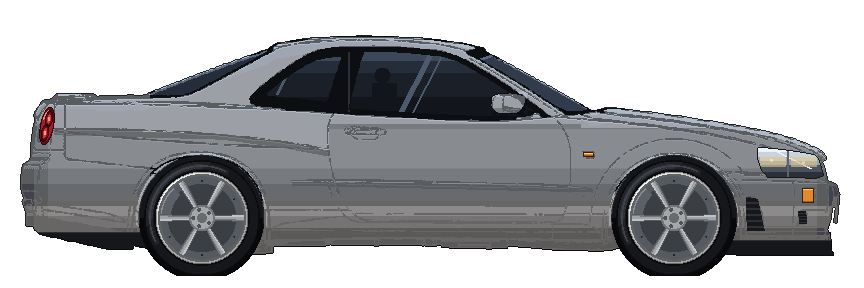
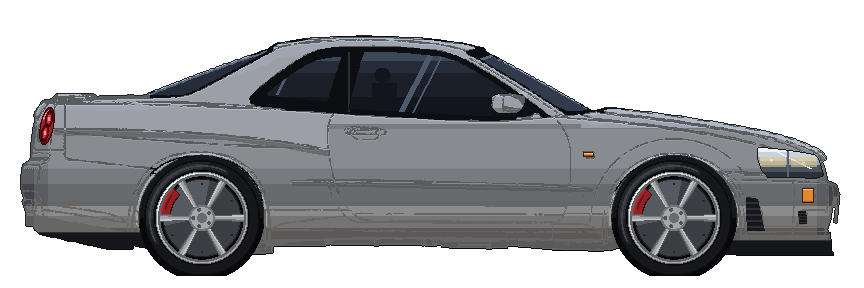
fix(car): колёса заново — шина и диск одним кадром, тормозной диск и суппорт своего цвета
Причина «отходящих» дисков: кузов на подвеске опускался ниже зазора арки и закрывал верх шины, а поворот спрайта между кадрами и мутное размытие поверх прятали суппорт. Теперь все крутящиеся слои берут один кадр листа (32 кадра, без поворота спрайта), шаг за кадр не больше половины периода спиц, спицы на скорости частично размываются. Ход подвески вниз ограничен зазором арки. Тормоз разделён на крутящийся диск и неподвижный суппорт; цвет суппортов выбирается в «Покраске».

diff --git a/src/systems/CarRig.js b/src/systems/CarRig.js
@@ -29,12 +29,16 @@ const AY = car.anchor.y;
 const PIVOT_Y = car.wheels.rear.y - AY; // кузов качается вокруг высоты осей
 const SIZES = [...new Set(Object.values(car.rims))];
 const RIM_TYPES = Object.keys(car.rims);
-/** Все колёсные листы: шины под каждый размер диска, тормоза и диски. */
+/** Все колёсные листы: шины под каждый размер диска, тормозные диски и колёсные диски. */
 const WHEEL_SHEETS = [
   ...car.tires.flatMap((t) => SIZES.map((s) => `wheel_tire_${t}_${s}`)),
-  ...RIM_TYPES.flatMap((r) => [`wheel_brake_${r}`, `wheel_rim_${r}`]),
+  ...SIZES.map((s) => `wheel_disc_${s}`),
+  ...RIM_TYPES.map((r) => `wheel_rim_${r}`),
 ];
+/** Суппорты — по одному на размер диска, не крутятся. */
+const CALIPERS = SIZES.map((s) => `wheel_caliper_${s}`);
 const OLD_RIM_COLOR = 0x9a9ea6;
+const OLD_CALIPER_COLOR = 0x6a6e75;
 // Текстуры машины в DENSITY раз детальнее мира: показываем в масштабе 1/DENSITY.
 const DENSITY = car.density ?? 1;
 const TEX = 1 / DENSITY;
@@ -48,6 +52,7 @@ const IMAGES = [
   'car_headlight',
   'car_dirt',
   'car_bricks',
+  ...CALIPERS,
   ...Object.values(car.overlays).map((k) => `car_overlay_${k}`),
   ...Object.values(car.spoilers).flatMap((s) => Object.values(s)),
 ];
@@ -78,10 +83,13 @@ const colorOf = (group, value) => {
 export function wheelKeys(build) {
   const tire = build.tires ? getPart(build.tires)?.sprite : car.noTires.tire;
   const rim = build.tires ? (getPart(build.rims)?.sprite ?? 'six') : car.noTires.rim;
+  const size = car.rims[rim];
   return {
-    brake: `wheel_brake_${rim}`,
-    tire: `wheel_tire_${tire}_${car.rims[rim]}`,
+    disc: `wheel_disc_${size}`,
+    caliper: `wheel_caliper_${size}`,
+    tire: `wheel_tire_${tire}_${size}`,
     rim: `wheel_rim_${rim}`,
+    spokes: car.spokes[rim] ?? 6,
   };
 }
 
@@ -176,7 +184,7 @@ function beamTexture(scene) {
 }
 
 /**
- * Размытый во вращении вариант листа колеса: среднее всех 16 кадров по каждому пикселю.
+ * Размытый во вращении вариант листа колеса: среднее всех кадров по каждому пикселю.
  * Нужен на скорости: за кадр экрана колесо проворачивается почти на период узора спиц,
  * и без размытия диск «стоит» или крутится назад (эффект колёс в кино).
  */
@@ -223,16 +231,21 @@ function spinBlurTexture(scene, key) {
   return blurKey;
 }
 
+/** Шаг листа колеса, рад: 32 кадра на оборот. */
+const FRAME_STEP = (Math.PI * 2) / car.wheelFrame.frames;
 /**
- * Наибольший видимый поворот колеса за кадр экрана, рад. Узор спиц повторяется через 60°;
- * шаг больше половины периода глаз читает как вращение назад или стоп. Реальный угол
- * копится честно, а видимый догоняет его не быстрее этого шага — диск всегда крутится вперёд.
+ * Видимый поворот за кадр экрана — не больше этой доли периода спиц. Шаг больше половины
+ * периода глаз читает как стоп или вращение назад (эффект колёс в кино), поэтому быстрее
+ * диск не поворачиваем, а на скорости спицы плавно уходят в размытие.
  */
-const MAX_TURN = 0.42;
-/** С какой скорости (кадров листа за кадр экрана) поверх проступает размытие и до какой оно растёт. */
-const BLUR_FROM = 0.5;
-const BLUR_FULL = 2.5;
-const BLUR_MAX = 0.7;
+const TURN_OF_PERIOD = 0.45;
+/** Размытие спиц: от какой и до какой доли периода за кадр, и насколько сильное в пределе. */
+const BLUR_FROM = 0.2;
+const BLUR_FULL = 0.55;
+const BLUR_MAX = 0.55;
+
+/** Слои колеса снизу вверх. */
+const WHEEL_LAYERS = ['disc', 'caliper', 'tire', 'rim', 'rimBlur'];
 
 export class CarRig extends Phaser.GameObjects.Container {
   /**
@@ -246,8 +259,7 @@ export class CarRig extends Phaser.GameObjects.Container {
     scene.add.existing(this);
     this.night = Boolean(opts.night);
     this.suspension = createSuspension();
-    this.wheelAngle = 0;
-    this.visualAngle = 0;
+    this.wheelAngle = 0; // видимый угол колёс, рад
 
     const img = (key) =>
       scene.add
@@ -297,13 +309,15 @@ export class CarRig extends Phaser.GameObjects.Container {
     const wheel = (w) => {
       const x = w.x - AX;
       const yy = w.y - AY;
+      // Снизу вверх: тормозной диск (крутится) → суппорт (стоит) → шина → диск колеса и его
+      // размытая копия. Все крутящиеся слои берут один и тот же кадр листа — никаких поворотов
+      // спрайта, поэтому шина и диск всегда совпадают до точки.
       return {
-        brake: scene.add.sprite(x, yy, 'wheel_brake_six', 0).setScale(TEX),
+        disc: scene.add.sprite(x, yy, 'wheel_disc_m', 0).setScale(TEX),
+        caliper: scene.add.image(x, yy, 'wheel_caliper_m').setScale(TEX),
         tire: scene.add.sprite(x, yy, 'wheel_tire_stock_m', 0).setScale(TEX),
         rim: scene.add.sprite(x, yy, 'wheel_rim_six', 0).setScale(TEX),
-        // Размытие поверх шины и диска: крутится вместе с ними, прозрачность растёт со скоростью.
-        tireBlur: scene.add.image(x, yy, '__DEFAULT').setScale(TEX).setAlpha(0),
-        rimBlur: scene.add.image(x, yy, '__DEFAULT').setScale(TEX).setAlpha(0),
+        rimBlur: scene.add.image(x, yy, 'wheel_rim_six').setScale(TEX).setAlpha(0),
       };
     };
     this.wheels = { rear: wheel(car.wheels.rear), front: wheel(car.wheels.front) };
@@ -314,9 +328,7 @@ export class CarRig extends Phaser.GameObjects.Container {
       this.neon,
       this.bodyBack,
       this.bricks,
-      ...['rear', 'front'].flatMap((k) =>
-        ['brake', 'tire', 'tireBlur', 'rim', 'rimBlur'].map((p) => this.wheels[k][p]),
-      ),
+      ...['rear', 'front'].flatMap((k) => WHEEL_LAYERS.map((p) => this.wheels[k][p])),
       this.bodyFront,
     ]);
 
@@ -353,17 +365,19 @@ export class CarRig extends Phaser.GameObjects.Container {
     // Колёса: без шин в сборке — спущенное дедово сзади и кирпичи спереди.
     const keys = wheelKeys(build);
     const rimColor = build.tires ? colorOf('rim', looks.rim) : OLD_RIM_COLOR;
+    const caliperColor = build.tires
+      ? (colorOf('caliper', looks.caliper) ?? OLD_CALIPER_COLOR)
+      : OLD_CALIPER_COLOR;
+    this.spokes = keys.spokes;
     for (const w of [this.wheels.rear, this.wheels.front]) {
-      for (const p of ['brake', 'tire', 'rim']) w[p].setTexture(keys[p], w[p].frame.name);
-      w.keys = keys;
-      w.spins = Boolean(build.tires); // спущенное дедово колесо не вертим — у него плоский низ
-      w.tireBlur.setTexture(spinBlurTexture(this.scene, keys.tire));
+      for (const p of ['disc', 'tire', 'rim']) w[p].setTexture(keys[p], w[p].frame.name);
+      w.caliper.setTexture(keys.caliper).setTint(caliperColor);
       w.rimBlur.setTexture(spinBlurTexture(this.scene, keys.rim)).setTint(rimColor);
       w.rim.setTint(rimColor);
     }
+    this.spins = Boolean(build.tires); // спущенное дедово колесо стоит — у него плоский низ
     const hasWheels = Boolean(build.tires);
-    for (const p of ['brake', 'tire', 'tireBlur', 'rim', 'rimBlur'])
-      this.wheels.front[p].setVisible(hasWheels);
+    for (const p of WHEEL_LAYERS) this.wheels.front[p].setVisible(hasWheels);
     this.bricks.setVisible(!hasWheels);
     this.build = build;
     return this;
@@ -375,9 +389,12 @@ export class CarRig extends Phaser.GameObjects.Container {
     this.bodyBack.rotation = other.bodyBack.rotation;
     this.bodyFront.y = other.bodyFront.y;
     this.bodyFront.rotation = other.bodyFront.rotation;
-    for (const k of ['rear', 'front'])
-      for (const p of ['brake', 'tire', 'rim'])
+    for (const k of ['rear', 'front']) {
+      for (const p of ['disc', 'tire', 'rim'])
         this.wheels[k][p].setFrame(other.wheels[k][p].frame.name);
+      this.wheels[k].rim.setAlpha(other.wheels[k].rim.alpha);
+      this.wheels[k].rimBlur.setAlpha(other.wheels[k].rimBlur.alpha);
+    }
   }
 
   /** Блик по свежей краске: светлая копия слоя краски быстро гаснет. */
@@ -421,28 +438,22 @@ export class CarRig extends Phaser.GameObjects.Container {
       g.y = PIVOT_Y + pose.y;
       g.rotation = pose.pitch;
     }
-    if (!distance) return;
-    // Поворот за кадр не больше MAX_TURN и в ту же сторону; лишнее не копится в долг,
-    // иначе после разгона колесо крутилось бы быстрее машины.
+    if (!this.spins) return;
+    // Настоящий поворот колеса за кадр по пройденному пути (катится без проскальзывания).
     const real = rollAngle(0, distance / this.scaleX);
-    this.wheelAngle += real;
-    this.visualAngle += Math.max(-MAX_TURN, Math.min(MAX_TURN, real));
-    // Скорость колеса — по настоящему углу: на ней растёт размытие.
-    const step = (Math.PI * 2) / car.wheelFrame.frames;
-    const framesPerTick = Math.abs(distance / this.scaleX / car.wheels.radius) / step;
-    const blur =
-      BLUR_MAX * Math.max(0, Math.min(1, (framesPerTick - BLUR_FROM) / (BLUR_FULL - BLUR_FROM)));
-    // Кадр листа — ближайший целый поворот, остаток доворачиваем спрайтом:
-    // пиксель-арт остаётся чётким, а шина и диск крутятся плавно и вместе.
-    const f = wheelFrame(this.visualAngle);
-    const rest = this.visualAngle - Math.floor(this.visualAngle / step) * step;
+    const period = (Math.PI * 2) / this.spokes;
+    // Видимый поворот: целыми кадрами листа и не больше TURN_OF_PERIOD периода спиц.
+    const cap = Math.max(1, Math.floor((period * TURN_OF_PERIOD) / FRAME_STEP)) * FRAME_STEP;
+    this.wheelAngle += Math.max(-cap, Math.min(cap, real));
+    const f = wheelFrame(this.wheelAngle);
+    // Чем ближе поворот за кадр к половине периода, тем сильнее спицы уходят в размытие.
+    const spin = Math.abs(real) / period;
+    const blur = BLUR_MAX * Math.max(0, Math.min(1, (spin - BLUR_FROM) / (BLUR_FULL - BLUR_FROM)));
     for (const w of [this.wheels.rear, this.wheels.front]) {
-      w.brake.setFrame(f); // суппорт стоит, крутится только диск внутри кадров
-      if (!w.spins) continue;
-      w.tire.setFrame(f).setRotation(rest);
-      w.rim.setFrame(f).setRotation(rest);
-      w.tireBlur.setRotation(this.visualAngle).setAlpha(blur);
-      w.rimBlur.setRotation(this.visualAngle).setAlpha(blur);
+      w.disc.setFrame(f);
+      w.tire.setFrame(f);
+      w.rim.setFrame(f).setAlpha(1 - blur);
+      w.rimBlur.setAlpha(blur);
     }
   }
 }

diff --git a/src/ui/wheelThumb.js b/src/ui/wheelThumb.js
@@ -1,16 +1,17 @@
 /**
- * Картинка колеса для карточки детали: тормоз, шина и диск — те же пиксельные листы,
+ * Картинка колеса для карточки детали: тормозной диск, суппорт, шина и диск — те же пиксельные листы,
  * что на машине (первый кадр), диск перекрашен в цвет дисков игрока.
  */
 import Phaser from 'phaser';
 
 /**
  * @param {Phaser.Scene} scene
- * @param {{brake: string, tire: string, rim: string}} keys
+ * @param {{disc: string, caliper: string, tire: string, rim: string}} keys
  * @param {string|null} rimHex
+ * @param {string|null} caliperHex
  * @param {number} size сторона в пикселях вёрстки
  */
-export function wheelThumb(scene, keys, rimHex, size = 96) {
+export function wheelThumb(scene, keys, rimHex, size = 96, caliperHex = null) {
   const canvas = document.createElement('canvas');
   canvas.className = 'wheel-thumb';
   canvas.width = size * 2;
@@ -48,7 +49,8 @@ export function wheelThumb(scene, keys, rimHex, size = 96) {
     c.drawImage(img, f.cutX, f.cutY, f.cutWidth, f.cutHeight, 0, 0, tmp.width, tmp.height);
     ctx.drawImage(tmp, 0, 0);
   };
-  draw(keys.brake);
+  draw(keys.disc);
+  draw(keys.caliper, caliperHex ?? '#c4282e');
   draw(keys.tire);
   draw(keys.rim, rimHex ?? Phaser.Display.Color.IntegerToColor(0xc0c4c8).rgba);
   return canvas;

diff --git a/tests/carPhysics.test.js b/tests/carPhysics.test.js
@@ -8,6 +8,7 @@ import {
   rollAngle,
   SUSPENSION,
 } from '../src/systems/carPhysics.js';
+import car from '../data/car.json';
 
 const run = (s, seconds, accel = 0) => {
   for (let t = 0; t < seconds; t += 1 / 60) stepSuspension(s, 1 / 60, accel);
@@ -47,11 +48,19 @@ describe('подвеска', () => {
 });
 
 describe('колёса', () => {
-  it('кадр по углу: 16 кадров на оборот, отрицательные углы тоже', () => {
-    expect(wheelFrame(0)).toBe(0);
-    expect(wheelFrame(Math.PI)).toBe(8);
-    expect(wheelFrame(Math.PI * 2)).toBe(0);
-    expect(wheelFrame(-0.01)).toBe(15);
+  it('кадр по углу: по кругу, отрицательные углы тоже', () => {
+    expect(wheelFrame(0, 16)).toBe(0);
+    expect(wheelFrame(Math.PI, 16)).toBe(8);
+    expect(wheelFrame(Math.PI * 2, 16)).toBe(0);
+    expect(wheelFrame(-0.01, 16)).toBe(15);
+    expect(wheelFrame(Math.PI)).toBe(16); // лист в 32 кадра
+  });
+
+  it('кузов не наезжает на шину: ход вниз не больше зазора арки', () => {
+    const s = createSuspension();
+    for (let i = 0; i < 240; i++) stepSuspension(s, 1 / 60, -12); // резкое торможение
+    expect(s.front.y).toBeLessThanOrEqual(SUSPENSION.maxDrop);
+    expect(SUSPENSION.maxDrop).toBeLessThan(car.archGap);
   });
 
   it('проезд длины окружности — ровно оборот', () => {

diff --git a/src/systems/carPhysics.js b/src/systems/carPhysics.js
@@ -11,7 +11,9 @@ export const SUSPENSION = Object.freeze({
   stiffness: 140, // 1/с² — жёсткость пружины
   damping: 11, // 1/с — демпфер
   squat: 0.25, // px на 1 м/с² продольного ускорения: полное торможение ≈ ход подвески, без удара в отбойник
-  maxTravel: 4, // px — ход подвески
+  maxTravel: 4, // px — ход подвески вверх
+  // px — вниз не дальше зазора арки: крыло не наезжает на шину, диск не «съезжает» в ней
+  maxDrop: Math.max(0.3, (car.archGap ?? 1.3) - 0.2),
   maxPitch: 0.025, // рад — больше пиксель-арт «ломается» при повороте
 });
 
@@ -32,7 +34,13 @@ export function stepSuspension(s, dt, accel = 0, p = SUSPENSION) {
     const force = -p.stiffness * (a.y - rest) - p.damping * a.v;
     a.v += force * h;
     a.y += a.v * h;
-    a.y = Math.max(-p.maxTravel, Math.min(p.maxTravel, a.y));
+    if (a.y > p.maxDrop) {
+      a.y = p.maxDrop; // отбойник
+      a.v = Math.min(a.v, 0);
+    } else if (a.y < -p.maxTravel) {
+      a.y = -p.maxTravel;
+      a.v = Math.max(a.v, 0);
+    }
   };
   axle(s.rear, load);
   axle(s.front, -load);

diff --git a/src/scenes/GarageScene.js b/src/scenes/GarageScene.js
@@ -45,7 +45,7 @@ import { t } from '../systems/strings.js';
 
 const cfg = config.garage;
 const TILES = [...partsData.groups.map((g) => g.id), 'looks', 'service'];
-const LOOK_GROUPS = ['paint', 'rim', 'headlight', 'neon'];
+const LOOK_GROUPS = ['paint', 'rim', 'caliper', 'headlight', 'neon'];
 const SERVICE = ['oil', 'repair', 'wash'];
 const SERVICE_MS = 900;
 /** Где на машине подсвечивать раздел (доли длины машины от заднего бампера). */
@@ -553,7 +553,8 @@ export class GarageScene extends BaseScene {
       const build = { ...gameState.build, tires: gameState.build.tires ?? 'tires_stock' };
       if (part) build[slot.id] = part.id;
       const rimHex = cosmeticHex('rim', gameState.cosmetics.rim);
-      return wheelThumb(this, wheelKeys(build), rimHex, 72);
+      const caliperHex = cosmeticHex('caliper', gameState.cosmetics.caliper);
+      return wheelThumb(this, wheelKeys(build), rimHex, 72, caliperHex);
     }
     return icon(slot.id);
   }

diff --git a/src/ui/icons.js b/src/ui/icons.js
@@ -71,6 +71,12 @@ const wing = line(
   '<path d="M32 96h192l-24 24H56z"/><path d="M96 120l-16 80M160 120l16 80M56 200h48M152 200h48"/>',
 );
 
+/** Суппорт: тормозной диск и скоба поверх его края. */
+const caliper = line(
+  '<circle cx="128" cy="128" r="88"/><circle cx="128" cy="128" r="20"/>' +
+    '<path d="M58 74a96 96 0 0 1 70-42v52a44 44 0 0 0-32 20z" fill="currentColor"/>',
+);
+
 const ICONS = {
   play,
   help: bookOpen,
@@ -103,6 +109,7 @@ const ICONS = {
   looks: paintBucket,
   paint: paintBucket,
   rim,
+  caliper,
   headlight: headlights,
   neon: lightbulb,
   custom: eyedropper,

diff --git a/src/gameState.js b/src/gameState.js
@@ -13,7 +13,7 @@ import { loadGame, saveSoon, clearSave } from './systems/save.js';
 const listeners = new Set();
 const HEX = /^#[0-9a-f]{6}$/i;
 /** Группы внешнего вида, где можно выбрать свой цвет, а не только готовый. */
-export const CUSTOM_COLOR_GROUPS = Object.freeze(['paint', 'rim', 'neon']);
+export const CUSTOM_COLOR_GROUPS = Object.freeze(['paint', 'rim', 'caliper', 'neon']);
 
 export function createInitialState() {
   return {
